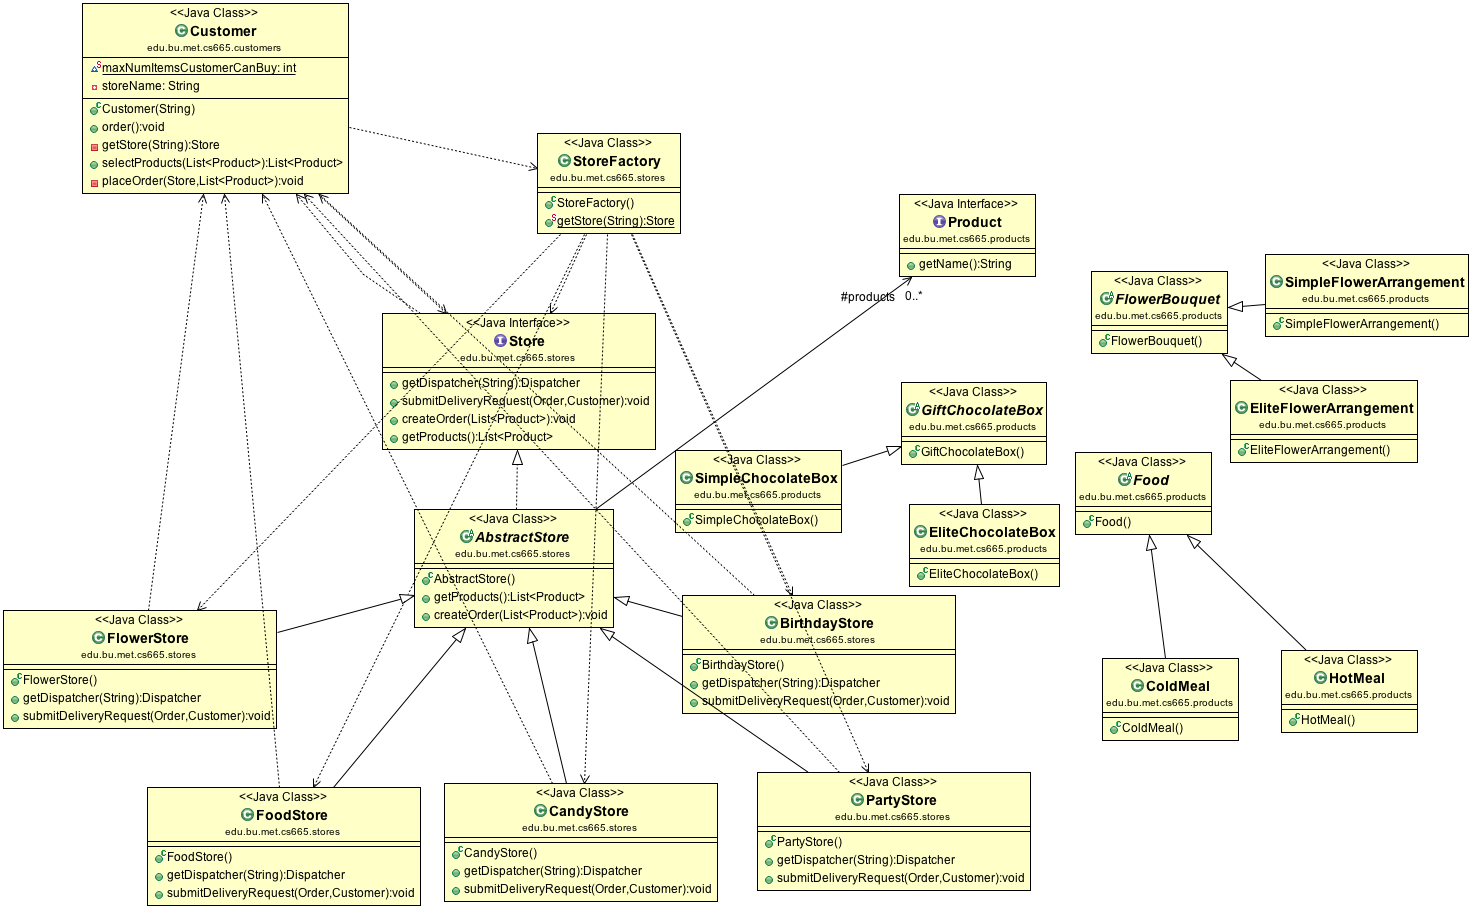
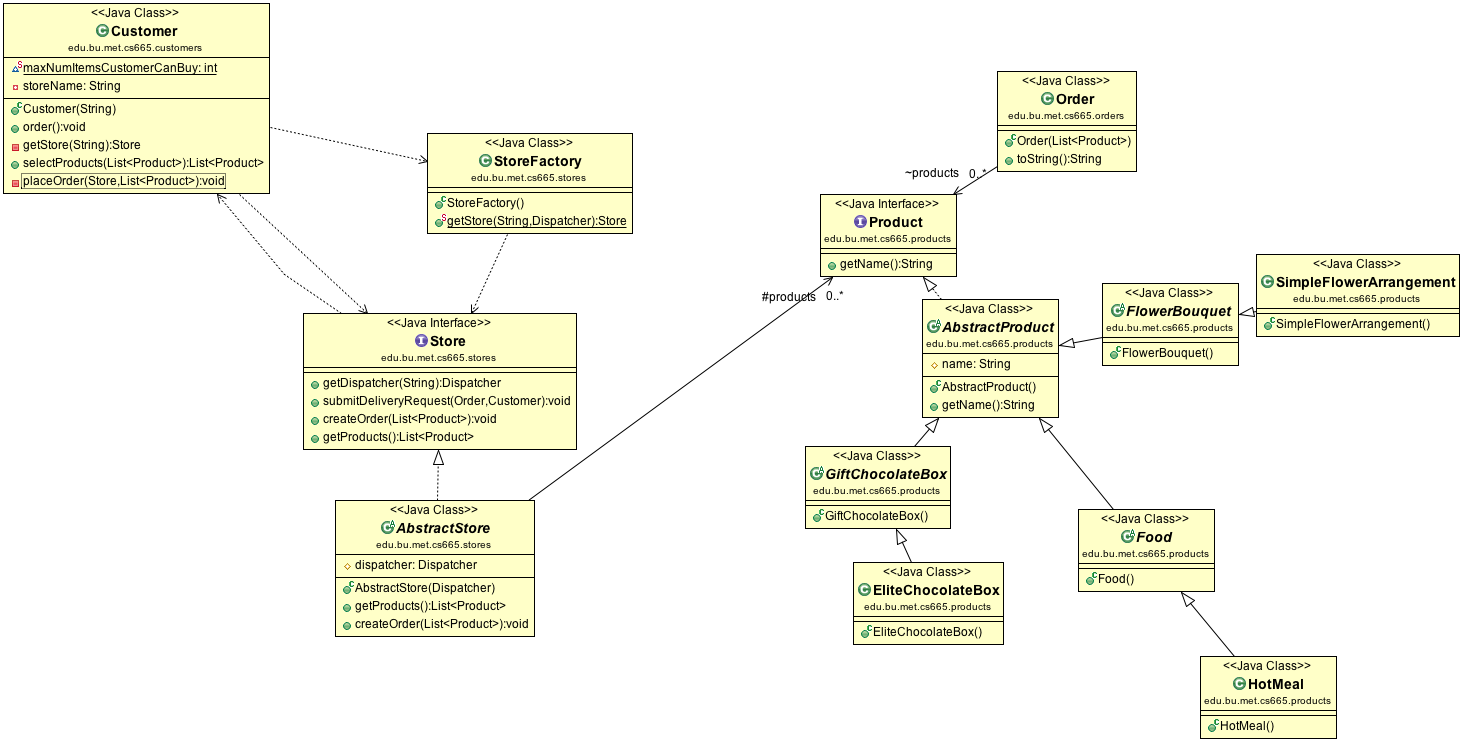
Saving state

diff --git a/src/main/java/edu/bu/met/cs665/stores/StoreFactory.java b/src/main/java/edu/bu/met/cs665/stores/StoreFactory.java
@@ -1,23 +1,25 @@
 package edu.bu.met.cs665.stores;
 
+import edu.bu.met.cs665.dispatchers.Dispatcher;
+
 public class StoreFactory {
-    static public Store getStore(String storeName){
+    static public Store getStore(String storeName, Dispatcher dispatcher){
       Store store = null;
       switch(storeName){
         case "Candy Store":
-          store = new CandyStore();
+          store = new CandyStore(dispatcher);
           break;
         case "Flower Store":
-          store = new FlowerStore();
+          store = new FlowerStore(dispatcher);
           break;
         case "Food Store":
-          store = new FoodStore();
+          store = new FoodStore(dispatcher);
           break;
         case "Birthday Store":
-          store = new BirthdayStore();
+          store = new BirthdayStore(dispatcher);
           break;
         case "Party Store":
-          store = new PartyStore();
+          store = new PartyStore(dispatcher);
           break;
          default:
            store = null;

diff --git a/src/main/java/edu/bu/met/cs665/dispatchers/StoreDispatcher.java b/src/main/java/edu/bu/met/cs665/dispatchers/StoreDispatcher.java
@@ -1,0 +1,38 @@
+package edu.bu.met.cs665.dispatchers;
+
+import edu.bu.met.cs665.orders.Order;
+import edu.bu.met.cs665.vehicles.Vehicle;
+
+public class StoreDispatcher implements Dispatcher {
+
+  @Override
+  public void registerVehicle(Vehicle vehicle) {
+    // TODO Auto-generated method stub
+
+  }
+
+  @Override
+  public void removeVehicle(Vehicle vehicle) {
+    // TODO Auto-generated method stub
+
+  }
+
+  @Override
+  public void dispatchVehicle(Vehicle vehicle, Order order) {
+    // TODO Auto-generated method stub
+
+  }
+
+  @Override
+  public void receiveOrder(Order order) {
+    // TODO Auto-generated method stub
+
+  }
+
+  @Override
+  public void updateVehicleDistance(Vehicle vehicle, int distance) {
+    // TODO Auto-generated method stub
+    
+  }
+
+}

diff --git a/src/main/java/edu/bu/met/cs665/vehicles/AbstractVehicle.java b/src/main/java/edu/bu/met/cs665/vehicles/AbstractVehicle.java
@@ -1,0 +1,27 @@
+package edu.bu.met.cs665.vehicles;
+
+import edu.bu.met.cs665.dispatchers.Dispatcher;
+import edu.bu.met.cs665.dispatchers.StoreDispatcher;
+
+public abstract class AbstractVehicle implements Vehicle {
+
+  // This is the dispatcher that will be used for all vehicles
+  protected Dispatcher dispatcher;
+  
+  /**
+   * Send the dispatcher instance the updated distance for this vehicle.
+   */
+  @Override
+  public void updateDispatcher(int newDistance) {
+    dispatcher.updateVehicleDistance(this, newDistance);
+  }
+  
+  /**
+   * Vehicles will be passed the Dispatcher object to communicate with.
+   * @param dispatcher
+   */
+  public AbstractVehicle(Dispatcher dispatcher){
+    this.dispatcher = dispatcher;
+  }
+
+}

diff --git a/src/main/java/edu/bu/met/cs665/stores/AbstractStore.java b/src/main/java/edu/bu/met/cs665/stores/AbstractStore.java
@@ -1,11 +1,17 @@
 package edu.bu.met.cs665.stores;
 
 import java.util.List;
+import edu.bu.met.cs665.dispatchers.Dispatcher;
 import edu.bu.met.cs665.orders.Order;
 import edu.bu.met.cs665.products.Product;
 
 public abstract class AbstractStore implements Store {
   protected List<Product> products;
+  protected Dispatcher dispatcher;
+  
+  public AbstractStore(Dispatcher dispatcher){
+    this.dispatcher = dispatcher;
+  }
   
   public List<Product> getProducts(){
     return this.products;

diff --git a/src/main/java/edu/bu/met/cs665/dispatchers/Dispatcher.java b/src/main/java/edu/bu/met/cs665/dispatchers/Dispatcher.java
@@ -8,6 +8,7 @@ public interface Dispatcher {
   public void registerVehicle(Vehicle vehicle);
   public void removeVehicle(Vehicle vehicle);
   public void dispatchVehicle(Vehicle vehicle, Order order);
+  public void updateVehicleDistance(Vehicle vehicle, int distance);
   
   // Handle the interaction with the stores
   // Receive an order from a customer and add it to the collection of orders

diff --git a/src/main/java/edu/bu/met/cs665/stores/BirthdayStore.java b/src/main/java/edu/bu/met/cs665/stores/BirthdayStore.java
@@ -12,7 +12,8 @@ import edu.bu.met.cs665.products.SimpleFlowerArrangement;
 
 public class BirthdayStore extends AbstractStore{
 
-  public BirthdayStore(){
+  public BirthdayStore(Dispatcher dispatcher){
+    super(dispatcher);
     this.products = new ArrayList<>();
     this.products.add(new EliteChocolateBox());
     this.products.add(new SimpleFlowerArrangement());

diff --git a/src/main/java/edu/bu/met/cs665/stores/FlowerStore.java b/src/main/java/edu/bu/met/cs665/stores/FlowerStore.java
@@ -12,7 +12,8 @@ import edu.bu.met.cs665.products.SimpleFlowerArrangement;
 
 public class FlowerStore extends AbstractStore{
 
-  public FlowerStore(){
+  public FlowerStore(Dispatcher dispatcher){
+    super(dispatcher);
     this.products = new ArrayList<>();
     this.products.add(new SimpleFlowerArrangement());
     this.products.add(new EliteFlowerArrangement());

diff --git a/src/main/java/edu/bu/met/cs665/stores/CandyStore.java b/src/main/java/edu/bu/met/cs665/stores/CandyStore.java
@@ -11,7 +11,8 @@ import edu.bu.met.cs665.products.SimpleChocolateBox;
 
 public class CandyStore extends AbstractStore{
 
-  public CandyStore(){
+  public CandyStore(Dispatcher dispatcher){
+    super(dispatcher);
     this.products = new ArrayList<>();
     this.products.add(new EliteChocolateBox());
     this.products.add(new SimpleChocolateBox());

diff --git a/src/main/java/edu/bu/met/cs665/stores/PartyStore.java b/src/main/java/edu/bu/met/cs665/stores/PartyStore.java
@@ -13,7 +13,8 @@ import edu.bu.met.cs665.products.SimpleChocolateBox;
 
 public class PartyStore extends AbstractStore{
   
-  public PartyStore(){
+  public PartyStore(Dispatcher dispatcher){
+    super(dispatcher);
     this.products = new ArrayList<>();
     this.products.add(new EliteFlowerArrangement());
     this.products.add(new HotMeal());

diff --git a/src/main/java/edu/bu/met/cs665/stores/FoodStore.java b/src/main/java/edu/bu/met/cs665/stores/FoodStore.java
@@ -12,7 +12,8 @@ import edu.bu.met.cs665.products.Product;
 public class FoodStore extends AbstractStore{
 
 
-  public FoodStore(){
+  public FoodStore(Dispatcher dispatcher){
+    super(dispatcher);
     this.products = new ArrayList<>();
     this.products.add(new ColdMeal());
     this.products.add(new HotMeal());

diff --git a/src/main/java/edu/bu/met/cs665/vehicles/VanVehicle.java b/src/main/java/edu/bu/met/cs665/vehicles/VanVehicle.java
@@ -1,0 +1,10 @@
+package edu.bu.met.cs665.vehicles;
+
+import edu.bu.met.cs665.dispatchers.Dispatcher;
+
+public class VanVehicle extends AbstractVehicle{
+
+  public VanVehicle(Dispatcher dispatcher){
+    super(dispatcher);
+  }
+}

diff --git a/src/main/java/edu/bu/met/cs665/vehicles/Vehicle.java b/src/main/java/edu/bu/met/cs665/vehicles/Vehicle.java
@@ -1,5 +1,5 @@
 package edu.bu.met.cs665.vehicles;
 
 public interface Vehicle {
-
+    public void updateDispatcher(int newDistance);
 }
